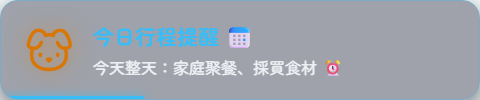
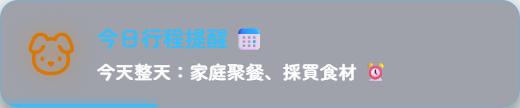
feat(tv-hud): re-render 7 Solution B HUD images with enlarged 1.15rem message font

diff --git a/render_all_huds.py b/render_all_huds.py
@@ -1,4 +1,5 @@
 import os
+import shutil
 from playwright.sync_api import sync_playwright
 
 scenarios = [
@@ -61,6 +62,7 @@ scenarios = [
 ]
 
 os.makedirs('deploy/android-tv/huds', exist_ok=True)
+os.makedirs('deploy/android-tv/www/huds', exist_ok=True)
 
 with sync_playwright() as p:
     browser = p.chromium.launch(headless=True)
@@ -83,16 +85,16 @@ with sync_playwright() as p:
       overflow: hidden;
     }}
     .tv-hud-toast {{
-      width: 480px;
+      width: 520px;
       background: rgba(15, 23, 42, 0.40);
       backdrop-filter: blur(16px);
       -webkit-backdrop-filter: blur(16px);
       border: 1px solid {s['accent']}55;
       border-radius: 18px;
-      padding: 1.25rem 1.35rem;
+      padding: 1.3rem 1.5rem;
       display: flex;
       align-items: center;
-      gap: 1.15rem;
+      gap: 1.25rem;
       box-shadow: 0 10px 30px rgba(0, 0, 0, 0.6), 0 0 15px {s['accent']}25;
       font-family: 'Zen Maru Gothic', 'Comfortaa', 'Noto Sans TC', sans-serif;
       position: relative;
@@ -110,10 +112,10 @@ with sync_playwright() as p:
       min-width: 0;
     }}
     .tv-hud-title {{
-      font-size: 1.3rem;
+      font-size: 1.35rem;
       font-weight: 700;
       color: {s['accent']};
-      margin-bottom: 0.25rem;
+      margin-bottom: 0.35rem;
       display: flex;
       align-items: center;
       gap: 6px;
@@ -121,12 +123,13 @@ with sync_playwright() as p:
       letter-spacing: 0.01em;
     }}
     .tv-hud-message {{
-      font-size: 1rem;
-      color: #f1f5f9;
+      font-size: 1.15rem;
+      color: #ffffff;
       line-height: 1.5;
-      opacity: 0.96;
+      opacity: 0.98;
       font-family: 'Zen Maru Gothic', sans-serif;
-      font-weight: 500;
+      font-weight: 600;
+      letter-spacing: 0.01em;
     }}
     .tv-progress {{
       position: absolute;
@@ -161,7 +164,12 @@ with sync_playwright() as p:
         page.set_content(html, wait_until='networkidle')
         out_path = f"deploy/android-tv/huds/{s['id']}.png"
         page.locator('#toast').screenshot(path=out_path, omit_background=True)
+        # Also copy to www/huds
+        www_path = f"deploy/android-tv/www/huds/{s['id']}.png"
+        shutil.copy2(out_path, www_path)
+        if s['id'] == 'doorbell':
+            shutil.copy2(out_path, "exact_card7_hud.png")
         page.close()
-        print(f"Rendered {out_path}")
+        print(f"Rendered {out_path} and copied to {www_path}")
     browser.close()
 print("All scenarios rendered successfully!")
